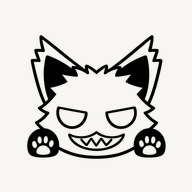
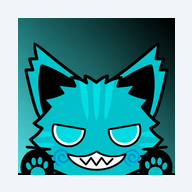
more easter eggs

diff --git a/seasons.js b/seasons.js
@@ -1,6 +1,16 @@
 (() => {
   const root = document.documentElement;
+  // Add confirmed personal dates here: { month, day, label, year? }.
+  const personalDates = { anniversary: null, milestones: [] };
   const seasons = {
+    valentine: { label: 'Valentine’s Day', reply: 'fine. you’re alright.', firstPet: 'fine. you’re alright.', art: '<path d="M16 28 4 16C-4 5 10-2 16 8 22-2 36 5 28 16Z" fill="#b76780"/>' },
+    aprilfools: { label: 'April Fools', firstPet: 'woof.', quiet: true, art: '' },
+    vappu: { label: 'Hyvää vappua', reply: 'sima?', art: '<path d="M4 14Q16 3 28 14v7H4Z" fill="#f8f6ee" stroke="#76796e"/><path d="M4 20h24v4H4zM8 24q8 8 16 0" fill="#303632"/><circle cx="16" cy="20" r="2" fill="#b79d4c"/>' },
+    catday: { label: 'International Cat Day', reply: 'finally. recognition.', firstPet: 'finally. recognition.', art: '<path d="m4 9 6 6 6-11 6 11 6-6-3 18H7Z" fill="#bea153"/><path d="M8 23h16" stroke="#705b2b" stroke-width="2"/>' },
+    newyearseve: { label: 'New Year’s Eve', reply: 'see you next year.', firstPet: 'see you next year.', art: '<circle cx="16" cy="16" r="12" fill="none" stroke="#ad8b39" stroke-width="2"/><path d="M16 7v9l5 3" fill="none" stroke="#ad8b39" stroke-width="2"/>' },
+    friday13: { label: 'Friday the 13th', firstPet: 'not my fault.', quiet: true, art: '' },
+    anniversary: { label: 'Site anniversary', reply: 'still here.', art: '<path d="M12 14h8v15h-8z" fill="#8264a5"/><path d="M16 1c-7 9-3 12 0 12s7-3 0-12Z" fill="#d78b2c"/>' },
+    milestone: { label: 'A little milestone', reply: 'worth celebrating.', art: '<path d="m16 3 4 8 9 2-7 6 2 10-8-5-8 5 2-10-7-6 9-2Z" fill="#bea153"/>' },
     christmas: { label: 'Merry Christmas', reply: 'merry meow.', art: '<path d="m8 23 9-17 9 17Z" fill="#a33e42"/><path d="M7 23h20v5H7z" fill="#fff9ed"/><circle cx="17" cy="6" r="3" fill="#fff9ed"/>' },
     birthday: { label: 'Birthday · 17 March', reply: 'cake?', art: '<path d="m7 27 9-23 10 23Z" fill="#8264a5"/><path d="m10 20 12-4m-9-5 7-2" stroke="#f8df9e" stroke-width="2"/><circle cx="16" cy="4" r="2" fill="#c7836a"/>' },
     easter: { label: 'Easter weekend', reply: 'found an egg.', art: '<path d="M25 21c0 12-18 12-18 0 0-7 6-17 9-17s9 10 9 17Z" fill="#b8c59a"/><path d="m8 18 4-3 4 3 4-3 4 3M8 24h16" stroke="#596a43" stroke-width="2" fill="none"/>' },
@@ -26,6 +36,14 @@
     const month = date.getMonth() + 1;
     const day = date.getDate();
     if (month === 3 && day === 17) return 'birthday';
+    const matches = (entry) => entry && entry.month === month && entry.day === day && (!entry.year || date.getFullYear() >= entry.year);
+    if (matches(personalDates.anniversary)) return 'anniversary';
+    if (personalDates.milestones.some(matches)) return 'milestone';
+    if (month === 2 && day === 14) return 'valentine';
+    if (month === 4 && day === 1) return 'aprilfools';
+    if ((month === 4 && day === 30) || (month === 5 && day === 1)) return 'vappu';
+    if (month === 8 && day === 8) return 'catday';
+    if (month === 12 && day === 31) return 'newyearseve';
     if (month === 12 && day >= 24 && day <= 26) return 'christmas';
     if (month === 10 && day === 31) return 'halloween';
     if (month === 1 && day === 1) return 'newyear';
@@ -33,6 +51,7 @@
     const start = new Date(sunday); start.setDate(sunday.getDate() - 2);
     const end = new Date(sunday); end.setDate(sunday.getDate() + 2);
     if (date >= start && date < end) return 'easter';
+    if (day === 13 && date.getDay() === 5) return 'friday13';
     return '';
   }
 
@@ -47,6 +66,8 @@
   label.className = 'season-label';
   document.querySelector('.introduction')?.append(label);
   let midnightTimer;
+  let activeSeason;
+  let manualBlue = null;
   const period = document.querySelector('.period');
   const canPlay = !!document.querySelector('.pet');
   const discovered = new Set();
@@ -54,6 +75,12 @@
   const flame = '<path d="M16 1c-7 9-3 12 0 12s7-3 0-12Z" fill="#d78b2c"/>';
   const gift = '<path d="M5 13h22v15H5zM3 10h26v5H3z" fill="#a33e42"/><path d="M16 10v18" stroke="#f5d9a2" stroke-width="3"/><path d="M16 10C3 10 6-3 16 10c10-13 13 0 0 0Z" stroke="#f5d9a2" stroke-width="2" fill="none"/>';
   const fish = '<path d="M23 16c-7-11-17-6-19 0 2 6 12 11 19 0l6 6V10Z" fill="#87aaa1"/><circle cx="9" cy="15" r="1.5" fill="#203537"/>';
+  const balloon = '<ellipse cx="16" cy="11" rx="8" ry="10" fill="#b76780"/><path d="m16 21-2 3h4Zm0 3q-4 3 0 7" stroke="#827b6b" fill="none"/>';
+  const cap = document.createElement('span');
+  cap.className = 'vappu-cap';
+  cap.setAttribute('aria-hidden', 'true');
+  cap.innerHTML = `<svg viewBox="0 0 32 32">${seasons.vappu.art}</svg>`;
+  if (canPlay) avatar.append(cap);
   const egg = document.createElementNS('http://www.w3.org/2000/svg', 'svg');
   egg.setAttribute('viewBox', '0 0 32 32');
   egg.setAttribute('aria-hidden', 'true');
@@ -76,7 +103,7 @@
 
   function renderDiscovery() {
     const key = root.dataset.season;
-    const actionable = canPlay && (key === 'birthday' || key === 'christmas');
+    const actionable = canPlay && ['birthday', 'christmas', 'vappu', 'anniversary'].includes(key);
     ornament.removeAttribute('aria-hidden');
     if (actionable) {
       let button = ornament.querySelector('button');
@@ -90,13 +117,19 @@
           if (hasFound(current)) return;
           remember(current);
           renderDiscovery();
-          reply(current === 'birthday' ? 'wish made.' : 'for me?');
+          reply(current === 'vappu' ? 'pop.' : current === 'christmas' ? 'for me?' : 'wish made.');
         });
       }
       const done = hasFound(key);
-      button.setAttribute('aria-label', key === 'birthday' ? (done ? 'Birthday wish made' : 'Blow out the birthday candle') : (done ? 'A fish for em' : 'Open the Christmas present'));
+      const names = {
+        birthday: ['Blow out the birthday candle', 'Birthday wish made'],
+        anniversary: ['Blow out the anniversary candle', 'Anniversary wish made'],
+        christmas: ['Open the Christmas present', 'A fish for em'],
+        vappu: ['Pop the Vappu balloon', 'Balloon popped'],
+      };
+      button.setAttribute('aria-label', names[key][Number(done)]);
       button.setAttribute('aria-disabled', String(done));
-      const art = key === 'birthday' ? candle + (done ? '' : flame) : done ? fish : gift;
+      const art = ['birthday', 'anniversary'].includes(key) ? candle + (done ? '' : flame) : key === 'vappu' ? (done ? seasons.vappu.art : balloon) : done ? fish : gift;
       button.innerHTML = `<svg viewBox="0 0 32 32" aria-hidden="true">${art}</svg>`;
     } else {
       ornament.setAttribute('aria-hidden', 'true');
@@ -106,6 +139,17 @@
     root.classList.toggle('egg-found', hasFound('easter'));
     if (period) period.setAttribute('aria-label', key === 'easter' && !hasFound('easter') ? 'Find the Easter egg' : 'Reveal a paw print');
   }
+  window.addEventListener('season-pet', (event) => {
+    const key = root.dataset.season;
+    const text = seasons[key]?.firstPet;
+    if (!text) return;
+    const now = new Date();
+    const marker = `first-${key}-${now.getMonth() + 1}-${now.getDate()}`;
+    if (hasFound(marker)) return;
+    remember(marker);
+    event.preventDefault();
+    reply(text);
+  });
   window.addEventListener('season-egg', () => {
     if (root.dataset.season !== 'easter' || hasFound('easter')) return;
     remember('easter');
@@ -128,9 +172,16 @@
     const now = new Date();
     const key = preview === 'none' ? '' : Object.hasOwn(seasons, preview) ? preview : seasonFor(now);
     const season = seasons[key];
+    if (key !== activeSeason) manualBlue = null;
+    activeSeason = key;
+    const blue = manualBlue ?? (!season || !!season.quiet);
+    root.classList.toggle('blue-mode', blue);
+    const blueAvatar = document.getElementById('blue-avatar');
+    if (blueAvatar) blueAvatar.media = blue ? 'all' : 'not all';
     if (season) {
       root.dataset.season = key;
-      root.dataset.seasonReply = season.reply;
+      if (season.reply) root.dataset.seasonReply = season.reply;
+      else delete root.dataset.seasonReply;
       label.textContent = key === 'christmas' && now.getMonth() === 11 && now.getDate() === 24 ? 'Christmas Eve' : season.label;
       ornament.innerHTML = `<svg viewBox="0 0 32 32" aria-hidden="true">${season.art}</svg>`;
     } else {
@@ -139,9 +190,13 @@
       label.textContent = '';
       ornament.replaceChildren();
     }
+    if (key === 'milestone') {
+      const milestone = personalDates.milestones.find((entry) => entry.month === now.getMonth() + 1 && entry.day === now.getDate());
+      if (milestone) label.textContent = milestone.label;
+    }
     renderDiscovery();
-    ornament.hidden = !season;
-    label.hidden = !season;
+    ornament.hidden = !season || !!season.quiet;
+    label.hidden = !season || !!season.quiet;
     syncThemeColor();
     clearTimeout(midnightTimer);
     const midnight = new Date(now.getFullYear(), now.getMonth(), now.getDate() + 1);
@@ -157,12 +212,13 @@
     if (preview === null) url.searchParams.delete('season');
     else url.searchParams.set('season', preview);
     history.replaceState(history.state, '', url);
-    root.classList.remove('blue-mode');
-    const blueAvatar = document.getElementById('blue-avatar');
-    if (blueAvatar) blueAvatar.media = 'not all';
+    manualBlue = null;
     updateSeason();
   });
-  window.addEventListener('themechange', syncThemeColor);
+  window.addEventListener('themechange', () => {
+    manualBlue = root.classList.contains('blue-mode');
+    syncThemeColor();
+  });
   window.addEventListener('pageshow', updateSeason);
   document.addEventListener('visibilitychange', () => { if (!document.hidden) updateSeason(); });
 })();

diff --git a/index.html b/index.html
@@ -1,5 +1,5 @@
 <!doctype html>
-<html lang="en">
+<html lang="en" class="blue-mode">
 <head>
   <meta charset="utf-8">
   <meta name="viewport" content="width=device-width, initial-scale=1, viewport-fit=cover">
@@ -7,8 +7,8 @@
   <meta name="description" content="Find me on GitHub, Ailurus, Steam, and Discord.">
   <meta name="author" content="Jeme">
   <meta name="color-scheme" content="light dark">
-  <meta name="theme-color" content="#f7f6f2" media="(prefers-color-scheme: light)">
-  <meta name="theme-color" content="#191a18" media="(prefers-color-scheme: dark)">
+  <meta name="theme-color" content="#f0f6f7" media="(prefers-color-scheme: light)">
+  <meta name="theme-color" content="#142225" media="(prefers-color-scheme: dark)">
   <link rel="canonical" href="https://jeme.app/">
   <meta property="og:type" content="website">
   <meta property="og:site_name" content="Jeme">
@@ -57,18 +57,19 @@
     <main id="main">
       <section class="profile" aria-labelledby="name">
         <div class="introduction">
-          <h1 id="name" aria-label="Jeme">Jeme<button class="period" type="button" aria-label="Reveal a paw print" disabled><span class="period-dot" aria-hidden="true">.</span><svg class="paw" viewBox="0 0 32 32" aria-hidden="true" focusable="false"><ellipse cx="7" cy="12" rx="3" ry="4" transform="rotate(-25 7 12)"/><ellipse cx="13" cy="7" rx="3" ry="4"/><ellipse cx="21" cy="7" rx="3" ry="4"/><ellipse cx="27" cy="13" rx="3" ry="4" transform="rotate(25 27 13)"/><path d="M8 24c0-4 5-10 9-10s9 6 9 10c0 6-6 3-9 3s-9 3-9-3Z"/></svg></button></h1>
+          <h1 id="name" aria-label="Jeme">Jeme<button class="period" type="button" tabindex="-1" aria-label="Reveal a paw print" disabled><span class="period-dot" aria-hidden="true">.</span><svg class="paw" viewBox="0 0 32 32" aria-hidden="true" focusable="false"><ellipse cx="7" cy="12" rx="3" ry="4" transform="rotate(-25 7 12)"/><ellipse cx="13" cy="7" rx="3" ry="4"/><ellipse cx="21" cy="7" rx="3" ry="4"/><ellipse cx="27" cy="13" rx="3" ry="4" transform="rotate(25 27 13)"/><path d="M8 24c0-4 5-10 9-10s9 6 9 10c0 6-6 3-9 3s-9 3-9-3Z"/></svg></button></h1>
         </div>
         <div class="avatar">
-          <button class="pet" type="button" aria-label="Pet em" disabled>
+          <button class="pet" type="button" tabindex="-1" aria-label="Pet em" disabled>
             <picture>
-              <source id="blue-avatar" srcset="/assets/avatar-blue.webp" media="not all">
+              <source id="blue-avatar" srcset="/assets/avatar-blue.webp" media="all">
               <source srcset="/assets/avatar-white.webp" media="screen and (prefers-color-scheme: dark)">
               <img src="/assets/avatar-black.webp" width="128" height="128" alt="em" fetchpriority="high">
             </picture>
           </button>
           <span class="cat-message" role="status" aria-live="polite" aria-atomic="true"></span>
           <svg class="cat-cloud" viewBox="0 0 32 24" fill="none" stroke="currentColor" stroke-width="1.5" aria-hidden="true"><path d="M8 19h16a5 5 0 0 0 0-10 8 8 0 0 0-15-2A6 6 0 0 0 8 19Z"/></svg>
+          <svg class="cat-snow" viewBox="0 0 100 30" fill="none" stroke="currentColor" stroke-width="1.2" aria-hidden="true"><path d="M15 5v16M8 9l14 8M8 17l14-8M50 1v16M43 5l14 8M43 13l14-8M83 9v16M76 13l14 8M76 21l14-8"/></svg>
           <span class="cat-sleep" aria-hidden="true">z</span>
           <p class="print-surprise">you put the cat on paper.</p>
         </div>
@@ -114,10 +115,12 @@
       <p class="panel-intro">Type a word anywhere on the page.</p>
       <dl class="command-list">
         <div><dt><code>miumau</code></dt><dd>Toggle blue mode.</dd></div>
+        <div><dt><code>jeme</code></dt><dd>Ask em who’s here.</dd></div>
         <div><dt><code>pspsps</code></dt><dd>Wake em.</dd></div>
         <div><dt><code>hello</code> / <code>bye</code></dt><dd>Say a little hello or goodbye.</dd></div>
         <div><dt><code>purr</code> / <code>sit</code> / <code>?</code></dt><dd>See what em has to say.</dd></div>
         <div><dt><code>fetch</code></dt><dd>Let em borrow the dot.</dd></div>
+        <div><dt><code>snow</code></dt><dd>A little first snow. No weather tracking.</dd></div>
         <div><dt><code>rain</code></dt><dd>A small cloud, just for em.</dd></div>
         <div><dt><code>uemaim</code> / <code>uamuim</code></dt><dd>Mirror em for a moment.</dd></div>
         <div><dt><code>seasons</code></dt><dd>Try a seasonal theme.</dd></div>
@@ -135,9 +138,17 @@
         <button type="button" data-preview="halloween"><span>Halloween</span> <small>31 October</small></button>
         <button type="button" data-preview="christmas"><span>Christmas</span> <small>24–26 December</small></button>
         <button type="button" data-preview="newyear"><span>New Year</span> <small>1 January</small></button>
+        <button type="button" data-preview="valentine"><span>Valentine’s Day</span> <small>14 February</small></button>
+        <button type="button" data-preview="aprilfools"><span>April Fools</span> <small>1 April</small></button>
+        <button type="button" data-preview="vappu"><span>Vappu</span> <small>30 April–1 May</small></button>
+        <button type="button" data-preview="catday"><span>International Cat Day</span> <small>8 August</small></button>
+        <button type="button" data-preview="newyearseve"><span>New Year’s Eve</span> <small>31 December</small></button>
+        <button type="button" data-preview="friday13"><span>Friday the 13th</span> <small>A first-pet surprise</small></button>
+        <button type="button" data-preview="anniversary"><span>Site anniversary</span> <small>Preview · date pending</small></button>
+        <button type="button" data-preview="milestone"><span>Personal milestone</span> <small>Preview · dates pending</small></button>
         <button type="button" data-preview="none"><span>Everyday</span> <small>No seasonal theme</small></button>
       </div>
-      <p class="panel-note">Try the birthday candle, the Christmas present, or the egg hidden in the Easter dot. Choosing a theme turns off blue mode.</p>
+      <p class="panel-note">Try the birthday candle, the Christmas present, or the egg hidden in the Easter dot. Seasonal themes use their own palettes. Today’s theme returns to blue on ordinary days.</p>
       <button class="panel-button" type="button" id="browse-commands">All secret commands <span aria-hidden="true">→</span></button>
     </section>
     <p class="panel-hint">Escape to close.</p>

diff --git a/style.css b/style.css
@@ -179,15 +179,15 @@ button.discord-row.is-copied .discord-username { opacity: 1; visibility: visible
 
 /* Seasonal palettes retain the same typography, spacing, and light/dark preference. */
 :root[data-season="christmas"] { --season-paper-light: #f7f4ee; --season-ink-light: #2b332c; --season-muted-light: #676d61; --season-line-light: #d9dacf; --season-accent-light: #873f43; --season-paper-dark: #19231e; --season-ink-dark: #eef1e7; --season-muted-dark: #acb7a5; --season-line-dark: #39473b; --season-accent-dark: #dfa2a0; }
-:root[data-season="birthday"] { --season-paper-light: #f8f3f6; --season-ink-light: #362c3a; --season-muted-light: #746675; --season-line-light: #e0d5df; --season-accent-light: #81578f; --season-paper-dark: #251d29; --season-ink-dark: #f2eaf4; --season-muted-dark: #baabbe; --season-line-dark: #4a3b4f; --season-accent-dark: #d0addd; }
+:root[data-season="birthday"], :root[data-season="valentine"], :root[data-season="anniversary"] { --season-paper-light: #f8f3f6; --season-ink-light: #362c3a; --season-muted-light: #746675; --season-line-light: #e0d5df; --season-accent-light: #81578f; --season-paper-dark: #251d29; --season-ink-dark: #f2eaf4; --season-muted-dark: #baabbe; --season-line-dark: #4a3b4f; --season-accent-dark: #d0addd; }
 :root[data-season="easter"] { --season-paper-light: #f5f6ed; --season-ink-light: #30372d; --season-muted-light: #66705d; --season-line-light: #d6ddc9; --season-accent-light: #5b7144; --season-paper-dark: #20251c; --season-ink-dark: #eef2e5; --season-muted-dark: #afbba0; --season-line-dark: #404b35; --season-accent-dark: #bed298; }
 :root[data-season="halloween"] { --season-paper-light: #faf3e9; --season-ink-light: #3e3027; --season-muted-light: #79664f; --season-line-light: #e2d4c1; --season-accent-light: #945321; --season-paper-dark: #261f1b; --season-ink-dark: #f6ecdf; --season-muted-dark: #c0ad97; --season-line-dark: #514030; --season-accent-dark: #e5a461; }
-:root[data-season="newyear"] { --season-paper-light: #f8f5ec; --season-ink-light: #383329; --season-muted-light: #736b55; --season-line-light: #dfd8c5; --season-accent-light: #796127; --season-paper-dark: #23221b; --season-ink-dark: #f4efdd; --season-muted-dark: #bcb397; --season-line-dark: #4a4532; --season-accent-dark: #dac17a; }
+:root[data-season="newyear"], :root[data-season="newyearseve"], :root[data-season="vappu"], :root[data-season="catday"], :root[data-season="milestone"] { --season-paper-light: #f8f5ec; --season-ink-light: #383329; --season-muted-light: #736b55; --season-line-light: #dfd8c5; --season-accent-light: #796127; --season-paper-dark: #23221b; --season-ink-dark: #f4efdd; --season-muted-dark: #bcb397; --season-line-dark: #4a4532; --season-accent-dark: #dac17a; }
 @media screen {
-  :root[data-season]:not(.blue-mode) { --paper: var(--season-paper-light); --ink: var(--season-ink-light); --muted: var(--season-muted-light); --line: var(--season-line-light); --accent: var(--season-accent-light); }
+  :root[data-season]:not(.blue-mode):not([data-season="aprilfools"]):not([data-season="friday13"]) { --paper: var(--season-paper-light); --ink: var(--season-ink-light); --muted: var(--season-muted-light); --line: var(--season-line-light); --accent: var(--season-accent-light); }
 }
 @media screen and (prefers-color-scheme: dark) {
-  :root[data-season]:not(.blue-mode) { --paper: var(--season-paper-dark); --ink: var(--season-ink-dark); --muted: var(--season-muted-dark); --line: var(--season-line-dark); --accent: var(--season-accent-dark); }
+  :root[data-season]:not(.blue-mode):not([data-season="aprilfools"]):not([data-season="friday13"]) { --paper: var(--season-paper-dark); --ink: var(--season-ink-dark); --muted: var(--season-muted-dark); --line: var(--season-line-dark); --accent: var(--season-accent-dark); }
 }
 .introduction { position: relative; }
 .season-label { position: absolute; top: 100%; left: 0; margin: 18px 0 0; color: var(--accent); font-size: 11px; line-height: 1.5; letter-spacing: .025em; white-space: nowrap; }
@@ -232,3 +232,10 @@ body:has(.discovery-panel[open]) { overflow: hidden; }
 .season-options button[aria-pressed="true"] { border-color: var(--accent); box-shadow: inset 2px 0 var(--accent); }
 @media (hover: hover) { .discovery-panel button:hover { color: var(--accent); } }
 @media print { .discovery-panel { display: none; } }
+
+.vappu-cap { display: none; position: absolute; top: -12px; left: 33%; width: 40%; pointer-events: none; }
+.vappu-cap svg { display: block; width: 100%; }
+:root[data-season="vappu"] .vappu-cap { display: block; }
+.cat-snow { position: absolute; right: 0; top: -52px; width: 100%; height: 30px; color: var(--accent); visibility: hidden; pointer-events: none; }
+.avatar.is-snowing .cat-snow { visibility: visible; }
+@media print { .vappu-cap, .cat-snow { display: none !important; } }

diff --git a/script.js b/script.js
@@ -66,6 +66,7 @@ pet.addEventListener('click', () => {
     ], { duration: 340, easing: 'ease-in-out' });
   }
   petCount += 1;
+  if (!window.dispatchEvent(new Event('season-pet', { cancelable: true }))) return;
   const hour = new Date().getHours();
   if (hour < 5 && Math.random() < 0.25) {
     say('still awake?');
@@ -132,14 +133,14 @@ window.addEventListener('keydown', (event) => {
     openDiscoveries(panel);
     return;
   }
-  const replies = { pspsps: '?', hello: 'hi.', bye: 'bye.', purr: 'prrr.', sit: 'no.', '?': '?' };
+  const replies = { jeme: 'that’s me.', pspsps: '?', hello: 'hi.', bye: 'bye.', purr: 'prrr.', sit: 'no.', '?': '?' };
   const greeting = Object.keys(replies).find((word) => secret.endsWith(word));
   if (greeting) {
     secret = '';
     say(replies[greeting]);
     return;
   }
-  const action = ['fetch', 'rain', 'uemaim', 'uamuim'].find((word) => secret.endsWith(word));
+  const action = ['fetch', 'rain', 'snow', 'uemaim', 'uamuim'].find((word) => secret.endsWith(word));
   if (action) {
     secret = '';
     if (action === 'fetch') {
@@ -147,6 +148,9 @@ window.addEventListener('keydown', (event) => {
       period.classList.remove('is-paw');
       briefly(period, 'is-missing');
       say('mine.');
+    } else if (action === 'snow') {
+      briefly(avatar, 'is-snowing');
+      say('first snow.');
     } else if (action === 'rain') {
       briefly(avatar, 'is-raining');
       say('…');
@@ -248,7 +252,7 @@ function openDiscoveries(view) {
   document.getElementById('season-guide').hidden = !seasons;
   document.getElementById('discovery-title').textContent = seasons ? 'A change of season.' : 'A few secrets.';
   const selected = new URLSearchParams(location.search).get('season');
-  const valid = ['birthday', 'easter', 'halloween', 'christmas', 'newyear', 'none'];
+  const valid = [...discoveries.querySelectorAll('[data-preview]')].map((button) => button.dataset.preview);
   for (const button of discoveries.querySelectorAll('[data-preview]')) {
     button.setAttribute('aria-pressed', String(button.dataset.preview === (valid.includes(selected) ? selected : 'today')));
   }

diff --git a/404.html b/404.html
@@ -1,5 +1,5 @@
 <!doctype html>
-<html lang="en">
+<html lang="en" class="blue-mode">
 <head>
   <meta charset="utf-8">
   <meta name="viewport" content="width=device-width, initial-scale=1, viewport-fit=cover">
@@ -7,8 +7,8 @@
   <meta name="description" content="Nothing here. Head back to Jeme’s home page.">
   <meta name="robots" content="noindex, follow">
   <meta name="color-scheme" content="light dark">
-  <meta name="theme-color" content="#f7f6f2" media="(prefers-color-scheme: light)">
-  <meta name="theme-color" content="#191a18" media="(prefers-color-scheme: dark)">
+  <meta name="theme-color" content="#f0f6f7" media="(prefers-color-scheme: light)">
+  <meta name="theme-color" content="#142225" media="(prefers-color-scheme: dark)">
   <link rel="icon" type="image/png" sizes="32x32" href="/assets/favicon.png">
   <link rel="apple-touch-icon" sizes="180x180" href="/assets/apple-touch-icon.png">
   <link rel="manifest" href="/site.webmanifest">
@@ -21,6 +21,7 @@
       <div class="profile">
         <h1 aria-label="404 — Page not found">404<span class="error-dot" aria-hidden="true">.</span></h1>
         <picture class="avatar">
+          <source id="blue-avatar" srcset="/assets/avatar-blue.webp" media="all">
           <source srcset="/assets/avatar-white.webp" media="screen and (prefers-color-scheme: dark)">
           <img src="/assets/avatar-black.webp" width="128" height="128" alt="em" fetchpriority="high">
         </picture>

diff --git a/sw.js b/sw.js
@@ -1,4 +1,4 @@
-const CACHE = 'jeme-v14';
+const CACHE = 'jeme-v17';
 const SHELL = ['/', '/index.html', '/404.html', '/style.css', '/script.js', '/seasons.js', '/site.webmanifest',
   '/assets/avatar-blue.webp', '/assets/avatar-black.webp', '/assets/avatar-white.webp', '/assets/favicon.png',
   '/assets/apple-touch-icon.png', '/assets/icon-192.png', '/assets/icon-512.png',

diff --git a/README.md b/README.md
@@ -16,11 +16,11 @@ Use revalidation (`Cache-Control: no-cache`) for HTML and `sw.js`. When changing
 
 ## Assets
 
-The supplied `assets/miumau-*.png` files are the avatar originals. The page uses 256px WebP derivatives. PNG app icons use the black avatar on the site's light background; the maskable icon adds safe padding. `assets/social.png` is the 1200 × 630 social preview. Update the canonical, social URLs, sitemap, and manifest if the domain changes.
+The supplied `assets/miumau-*.png` files are the avatar originals. The page uses 256px WebP derivatives. PNG app icons use the blue avatar on the site's light blue background; the maskable icon adds safe padding. `assets/social.png` is the 1200 × 630 social preview. Update the canonical, social URLs, sitemap, and manifest if the domain changes.
 
 ## Easter eggs
 
-Click the avatar (or focus it and press Enter/Space) to pet em; every third pet shows “mrrp.” Em gets a small “z” after 60 seconds without activity and wakes on interaction. Type `miumau` outside a text field to toggle the blue avatar and palette for the current visit. The developer console has a small greeting. All effects are silent, respect reduced motion, and work offline after the first visit.
+Click the avatar (or focus it and press Enter/Space) to pet em; every third pet shows “mrrp.” Em gets a small “z” after 60 seconds without activity and wakes on interaction. Blue is the default on ordinary days. Type `miumau` outside a text field to toggle between blue and the neutral/seasonal palette for the current visit. Type `jeme` for “that’s me.” The developer console has a small greeting. All effects are silent, respect reduced motion, and work offline after the first visit.
 
 The Discord row copies `thejeme` through the browser clipboard API. If clipboard access fails, or JavaScript is unavailable, it provides a selectable username. No third-party profile or clipboard service is used.
 
@@ -46,4 +46,4 @@ Preview with `/?season=christmas`, `/?season=birthday`, `/?season=easter`, `/?se
 
 On the homepage, the birthday ornament is a candle you can blow out (“wish made.”), and the Christmas ornament opens into a fish (“for me?”). During Easter, find the patterned egg hidden in the name’s dot (“found it.”). All three work with pointer or keyboard activation. Discoveries persist for the current browser tab’s session, separately for each year; if storage is unavailable, they last until reload. The 404 page keeps decorative ornaments.
 
-Type `help` to open a compact command guide or `seasons` to open the seasonal picker. Native dialogs support keyboard focus, a close button, and Escape. Choosing a season updates the preview URL without reloading. “Today’s theme” removes the override and follows the local date again; “Everyday” explicitly turns seasonal styling off. Either selection restores the standard avatar if blue mode was on.
+Type `help` to open a compact command guide or `seasons` to open the seasonal picker. Native dialogs support keyboard focus, a close button, and Escape. Choosing a season updates the preview URL without reloading. “Today’s theme” removes the override and follows the local date again; “Everyday” explicitly turns seasonal styling off. Selecting a season restores its neutral avatar and seasonal colors. “Today’s theme” and “Everyday” restore blue on ordinary days.
